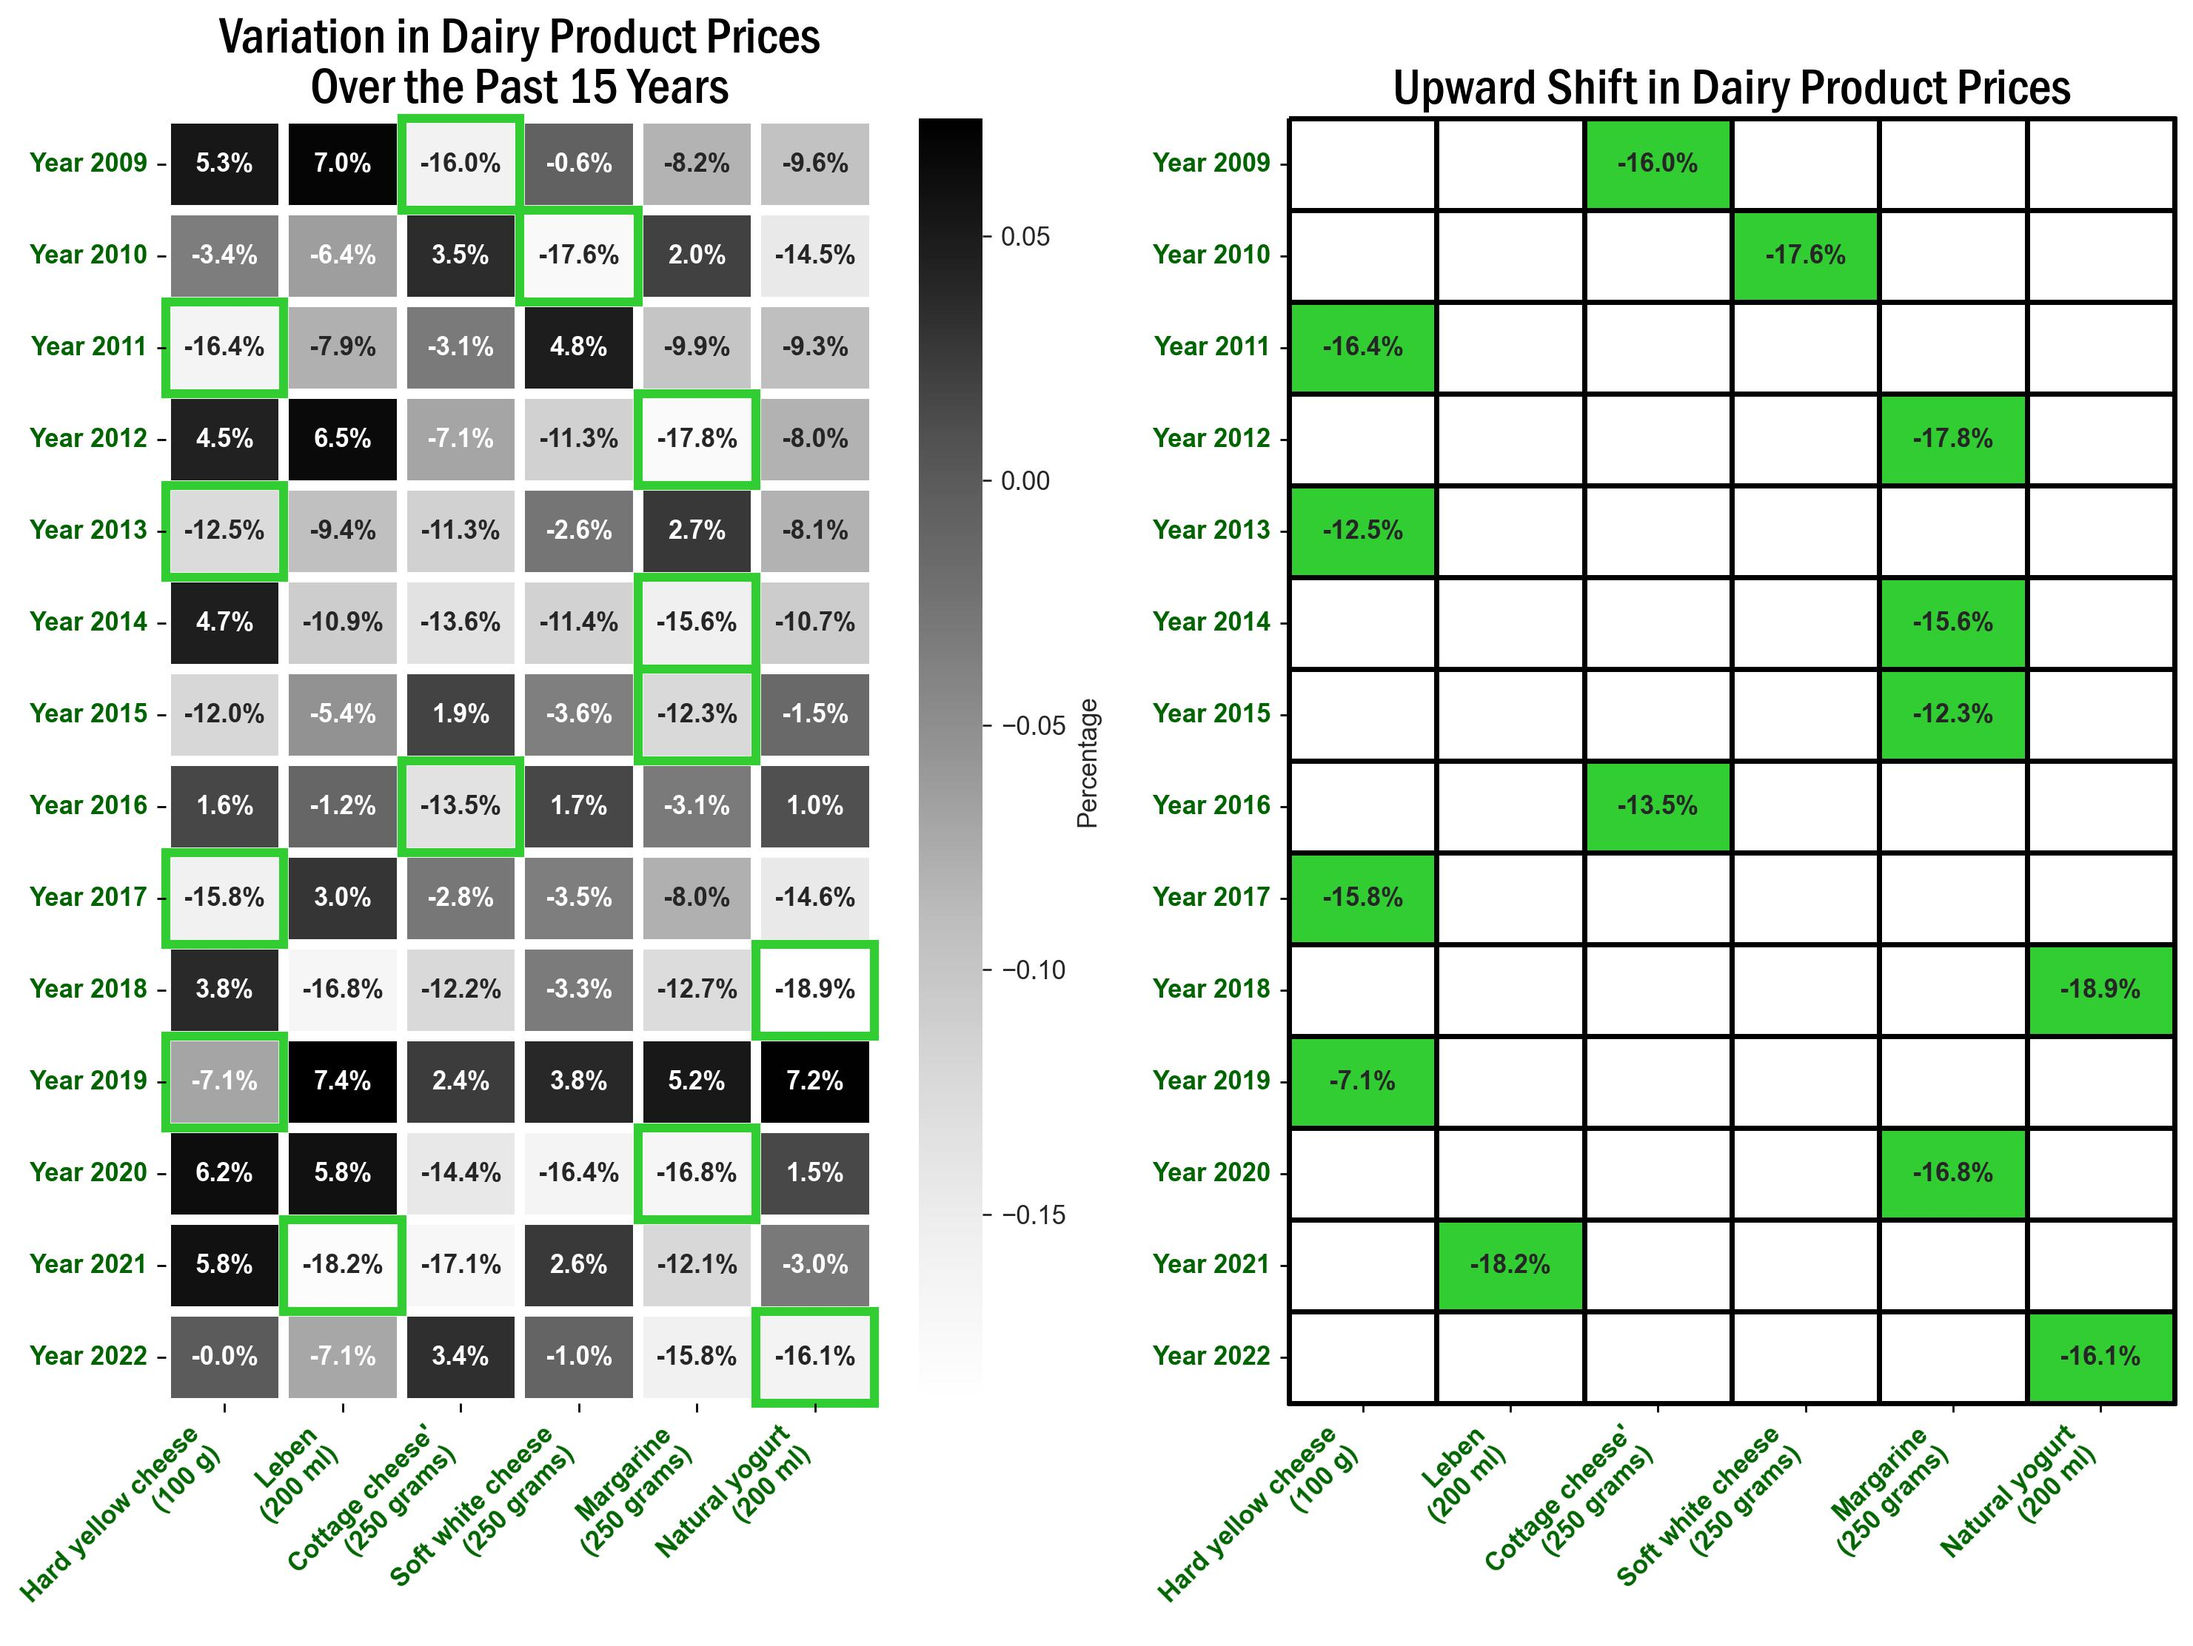
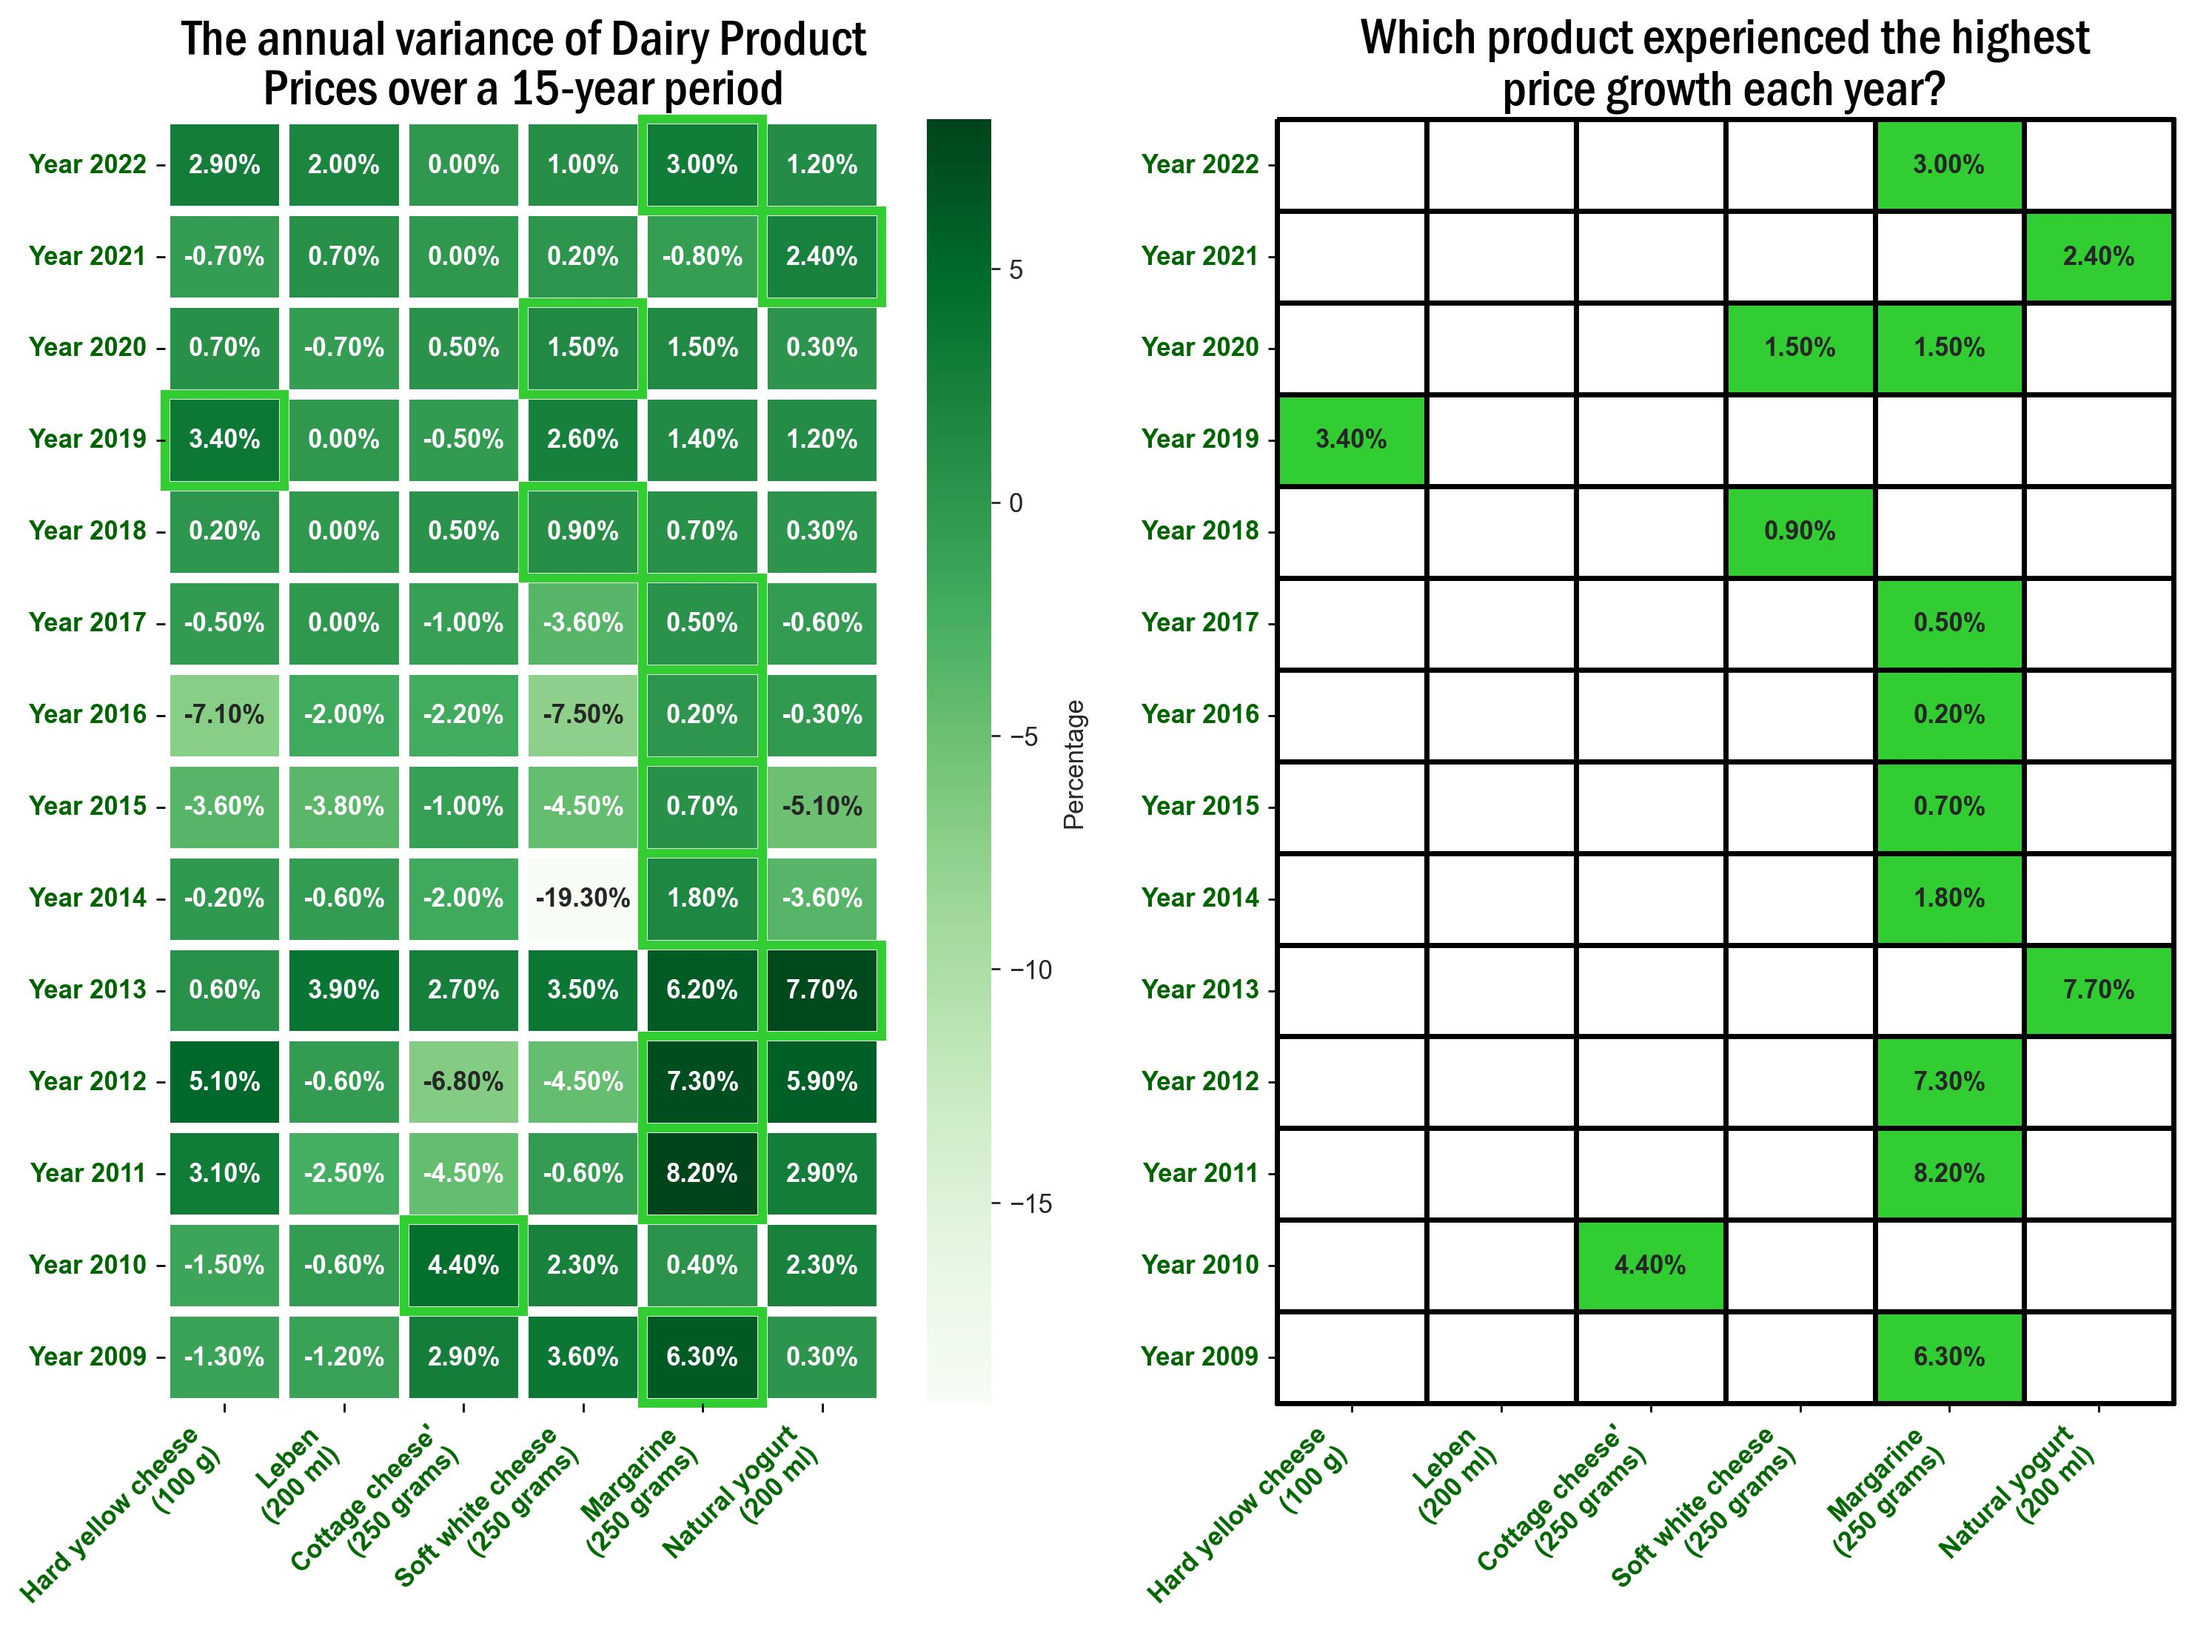
fixing the bug in the code

diff --git a/Question/Question_3/Question_3.py b/Question/Question_3/Question_3.py
@@ -4,13 +4,13 @@ import seaborn as sns
 import matplotlib.pyplot as plt
 from matplotlib.colors import ListedColormap
 
+
 # **************************************************************************************************************
 # Function  name: creating_the_data_food_item_prices_by_percentage_change_range_of_years
 # input:
 # return value:
 # ****************************************************************************************************************
 def creating_the_data_food_item_prices_by_percentage_change_range_of_years_(df, ending_year, starting_year):
-
     filter_data_by_year = df.loc[(df['Year'] <= ending_year) & (df['Year'] > starting_year)]
 
     filter_Dairy_Product = ['Year',
@@ -21,10 +21,11 @@ def creating_the_data_food_item_prices_by_percentage_change_range_of_years_(df, 
                             'Margarine for spreading in a cup (250 grams)',
                             'Natural yogurt in a plastic container (200 ml)']
 
-    column_indices = [filter_data_by_year.columns.get_loc(col) for col in filter_Dairy_Product]  # filter_vegi_and_fruits
+    column_indices = [filter_data_by_year.columns.get_loc(col) for col in
+                      filter_Dairy_Product]  # filter_vegi_and_fruits
     full_relevant_data = filter_data_by_year.iloc[:, column_indices]
     print('*')
-    table_stat_price = pd.DataFrame({'Year':[],
+    table_stat_price = pd.DataFrame({'Year': [],
                                      "Hard yellow cheese from cow's milk (100 g)": [],
                                      'Leben (200 ml)': [],
                                      "Cottage cheese' (250 grams)": [],
@@ -44,15 +45,17 @@ def creating_the_data_food_item_prices_by_percentage_change_range_of_years_(df, 
     table_stat_price = table_stat_price.apply(pd.to_numeric)
     percentage_changes = table_stat_price.pct_change()
     percentage_changes.drop('Year', axis=1, inplace=True)  # drop a column
-    #percentage_changes.drop(0, inplace=True)  # drop first row
+    # percentage_changes.drop(0, inplace=True)  # drop first row
     percentage_changes_format = percentage_changes.applymap(lambda x: f'{x * 100:.1f}')
-    percentage_changes_format= percentage_changes_format.reset_index()
+    percentage_changes_format = percentage_changes_format.reset_index()
     percentage_changes_format = percentage_changes_format.drop(index=0).reset_index(drop=True)
     percentage_changes_format_table = percentage_changes_format.drop(columns=['index'])
     percentage_changes_format_table = percentage_changes_format_table.apply(pd.to_numeric)
-    print('*')
+    # Reversing the order of the rows in the dataframe
+    percentage_changes_format_table = percentage_changes_format_table.iloc[::-1]
 
     return percentage_changes_format_table
+
 
 # **************************************************************************************************************
 # Function  name: creating_advance_heatmap
@@ -60,8 +63,8 @@ def creating_the_data_food_item_prices_by_percentage_change_range_of_years_(df, 
 # return value:
 # ****************************************************************************************************************
 def creating_advance_heatmap(data):
-
-    # Convert DataFrame to NumPy array - inorder to countinue running with the chart
+    # data = data.applymap(lambda x: f'{x:.1f}' if pd.notna(x) else '')
+    # Convert DataFrame to NumPy array - in order to continue running with the chart
     numpy_array_data = data.values
 
     fig, (ax1, ax2) = plt.subplots(ncols=2, figsize=(12, 9))
@@ -69,8 +72,10 @@ def creating_advance_heatmap(data):
     sns.set_style('white')
 
     # Heatmap number 1 :
-    sns.heatmap(numpy_array_data, linewidth=3.5, annot=True, square=False, ax=ax1, cmap='Greens', fmt=".1%",
-                    cbar_kws={'label': 'Percentage'}, annot_kws={'weight': 'bold', 'size': 10})
+    ax11 = sns.heatmap(numpy_array_data, linewidth=3.5, annot=True, square=False, ax=ax1, cmap='Grays', fmt=".2f",
+                       cbar_kws={'label': 'Percentage'}, annot_kws={'weight': 'bold', 'size': 10})
+
+    for t in ax11.texts: t.set_text(t.get_text() + "%")
 
     # Creating the squares for heatmap 1
     for ind, row in enumerate(numpy_array_data):
@@ -80,29 +85,35 @@ def creating_advance_heatmap(data):
     # Explanation for heatmap 2 :
     # This this code is creating a heatmap where each row is highlighted, showing the minimum value in each row
     # and masking (hiding) the other values. The purpose of the mask is to emphasize the minimum/ maximun value in each row.
-    sns.heatmap(numpy_array_data, mask=numpy_array_data != numpy_array_data.max(axis=1, keepdims=True), annot=True, lw=2, linecolor='black', clip_on=False,
-                cmap=ListedColormap(['limegreen']), cbar=False, ax=ax2, fmt=".1%",
-                cbar_kws={'label': 'Percentage'},
-                annot_kws={'weight': 'bold', 'size': 10})
+    ax22 = sns.heatmap(numpy_array_data, mask=numpy_array_data != numpy_array_data.max(axis=1, keepdims=True),
+                       annot=True, lw=2, linecolor='black', clip_on=False,
+                       cmap=ListedColormap(['limegreen']), cbar=False, ax=ax2, fmt=".2f",
+                       cbar_kws={'label': 'Percentage'},
+                       annot_kws={'weight': 'bold', 'size': 10})
+
+    for t in ax22.texts: t.set_text(t.get_text() + "%")
 
     # Customize x-axis and y-axis labels
     x_labels = ["Hard yellow cheese\n(100 g)", 'Leben\n(200 ml)', "Cottage cheese'\n(250 grams)",
-                    'Soft white cheese\n(250 grams)', 'Margarine\n(250 grams)', 'Natural yogurt\n(200 ml)']
-    y_labels = ['Year {}'.format(i) for i in range(2009, 2023)]
+                'Soft white cheese\n(250 grams)', 'Margarine\n(250 grams)', 'Natural yogurt\n(200 ml)']
+    y_labels = ['Year {}'.format(i) for i in range(2009, 2023)][::-1]
 
     # loop iterates over the two subplots (ax1 and ax2)
     for ax in [ax1, ax2]:
         ax.set_xticklabels(x_labels, rotation=45, ha='right', weight='bold', color='darkgreen')
         ax.set_yticklabels(y_labels, rotation=0, weight='bold', color='darkgreen')
 
-    ax1.set_title('Variation in Dairy Product Prices\nOver the Past 15 Years', fontsize=20, fontname='Franklin Gothic Medium Cond')
+    ax1.set_title('The annual variance of Dairy Product\nPrices over a 15-year period', fontsize=20,
+                  fontname='Franklin Gothic Medium Cond')
+    ax2.set_title('Which product experienced the highest\nprice growth each year?', fontsize=20,
+                  fontname='Franklin Gothic Medium Cond')
+
     plt.tight_layout()
     plt.savefig('heatmap_Advance_chart.jpg', dpi=250, bbox_inches='tight')
     plt.show()
 
 
 if __name__ == '__main__':
-
     pd.set_option('display.max_rows', 5000)
     df = pd.read_csv('/home/shay_diy/PycharmProjects/digging_deep_into_Israel_prices/Data/israel_prices.csv')
     df = df.replace(np.nan, '', regex=True)
@@ -116,7 +127,3 @@ if __name__ == '__main__':
     result_df = creating_the_data_food_item_prices_by_percentage_change_range_of_years_(df, ending_year, starting_year)
     creating_advance_heatmap(result_df)
     print('*')
-
-
-
-

diff --git a/Question/Question_3/preparation_for_the_chart.py b/Question/Question_3/preparation_for_the_chart.py
@@ -6,26 +6,39 @@ from matplotlib.colors import ListedColormap
 data = np.random.uniform(-0.193, 0.082, size=(14, 6)) # very nice - I didn't know that!
 
 
-fig, (ax1, ax2) = plt.subplots(ncols=2, figsize=(12, 9))
-sns.set_style('white')
+#data = np.random.uniform(-0.193, 0.082, size=(10, 6))
 
-sns.heatmap(data, linewidth=3.5, annot=True,square=False, ax=ax1, cmap = 'Grays',fmt=".1%",cbar_kws={'label': 'Percentage'},annot_kws={'weight': 'bold', 'size': 10})
+fig, (ax1, ax2) = plt.subplots(ncols=2, figsize=(12, 9))
+sns.set_style('dark')
+
+# Heatmap number 1 :
+sns.heatmap(data, linewidth=3.5, annot=True,square=False, ax=ax1, cmap = 'Grays',fmt=".2%",cbar_kws={'label': 'Percentage'},annot_kws={'weight': 'bold', 'size': 10})
+
+# Creating the squares for heatmap 1
 for ind, row in enumerate(data):
-    min_col = np.argmin(row)
+    min_col = np.argmax(row)
     ax1.add_patch(plt.Rectangle((min_col, ind), 1, 1, fc='none', ec='limegreen', lw=3.5, clip_on=False))
 
-sns.heatmap(data, mask=data != data.min(axis=1, keepdims=True), annot=True, lw=2, linecolor='black', clip_on=False,
-            cmap=ListedColormap(['limegreen']), cbar=False, ax=ax2,fmt=".1%",cbar_kws={'label': 'Percentage'},annot_kws={'weight': 'bold', 'size': 10})
 
-#for idx in len(np.arange(0,2,1)):
-ax2.set_xticklabels(["Hard yellow cheese\n(100 g)", 'Leben\n(200 ml)', "Cottage cheese'\n(250 grams)", 'Soft white cheese\n(250 grams)', 'Margarine\n(250 grams)', 'Natural yogurt\n(200 ml)'],
-                    rotation=45, ha='right',weight='bold',color = 'darkgreen')
-ax2.set_yticklabels(['Year {}'.format(i) for i in range(2009, 2023)], rotation=0,weight='bold',color = 'darkgreen')  # Customize y-axis labels
+# Name: Explanation for heatmap 2
+# input: This this code is creating a heatmap where each row is highlighted, showing the minimum value in each row
+#        and masking (hiding) the other values. The purpose of the mask is to emphasize the minimum/ maximun value in each row.
+# ***************************************************************************************************************
+sns.heatmap(data, mask=data != data.max(axis=1, keepdims=True), annot=True, lw=2, linecolor='black', clip_on=False,
+            cmap=ListedColormap(['limegreen']), cbar=False, ax=ax2,fmt=".2%",cbar_kws={'label': 'Percentage'},annot_kws={'weight': 'bold', 'size': 10})
+
+x_labels = ["Hard yellow cheese\n(100 g)", 'Leben\n(200 ml)', "Cottage cheese'\n(250 grams)", 'Soft white cheese\n(250 grams)', 'Margarine\n(250 grams)', 'Natural yogurt\n(200 ml)']
+y_labels = ['Year {}'.format(i) for i in range(2009, 2023)]
 
 
-ax1.set_xticklabels(["Hard yellow cheese\n(100 g)", 'Leben\n(200 ml)', "Cottage cheese'\n(250 grams)", 'Soft white cheese\n(250 grams)', 'Margarine\n(250 grams)', 'Natural yogurt\n(200 ml)'],
-                    rotation=45, ha='right', weight='bold',color = 'darkgreen')
-ax1.set_yticklabels(['Year {}'.format(i) for i in range(2009, 2023)], rotation=0,weight='bold',color = 'darkgreen')  # Customize y-axis labels
+# loop iterates over the two subplots (ax1 and ax2)
+for ax in [ax1, ax2]:
+    ax.set_xticklabels(x_labels, rotation=45, ha='right', weight='bold', color='darkgreen')
+    ax.set_yticklabels(y_labels, rotation=0, weight='bold', color='darkgreen')
+
+
+
+
 
 ax1.set_title('Variation in Dairy Product Prices\nOver the Past 15 Years', fontsize=20, fontname='Franklin Gothic Medium Cond')
 ax2.set_title('Upward Shift in Dairy Product Prices', fontsize=20, fontname='Franklin Gothic Medium Cond')
@@ -33,5 +46,10 @@ ax2.set_title('Upward Shift in Dairy Product Prices', fontsize=20, fontname='Fra
 plt.tight_layout()
 
 plt.savefig('heatmap_Advance_chart.jpg', dpi=250, bbox_inches='tight')
+
+
+# Adding picture - https://www.kaggle.com/code/andradaolteanu/bitcoin-dogecoin-on-rapids-and-elon-musk
+#path='../input/all-elon-musks-tweets/images/images/elon_rocket.png'
+#offset_png(x=6.9, y=2000, path=path, ax=ax, zoom=0.27, offset=0)
 plt.show()
 
